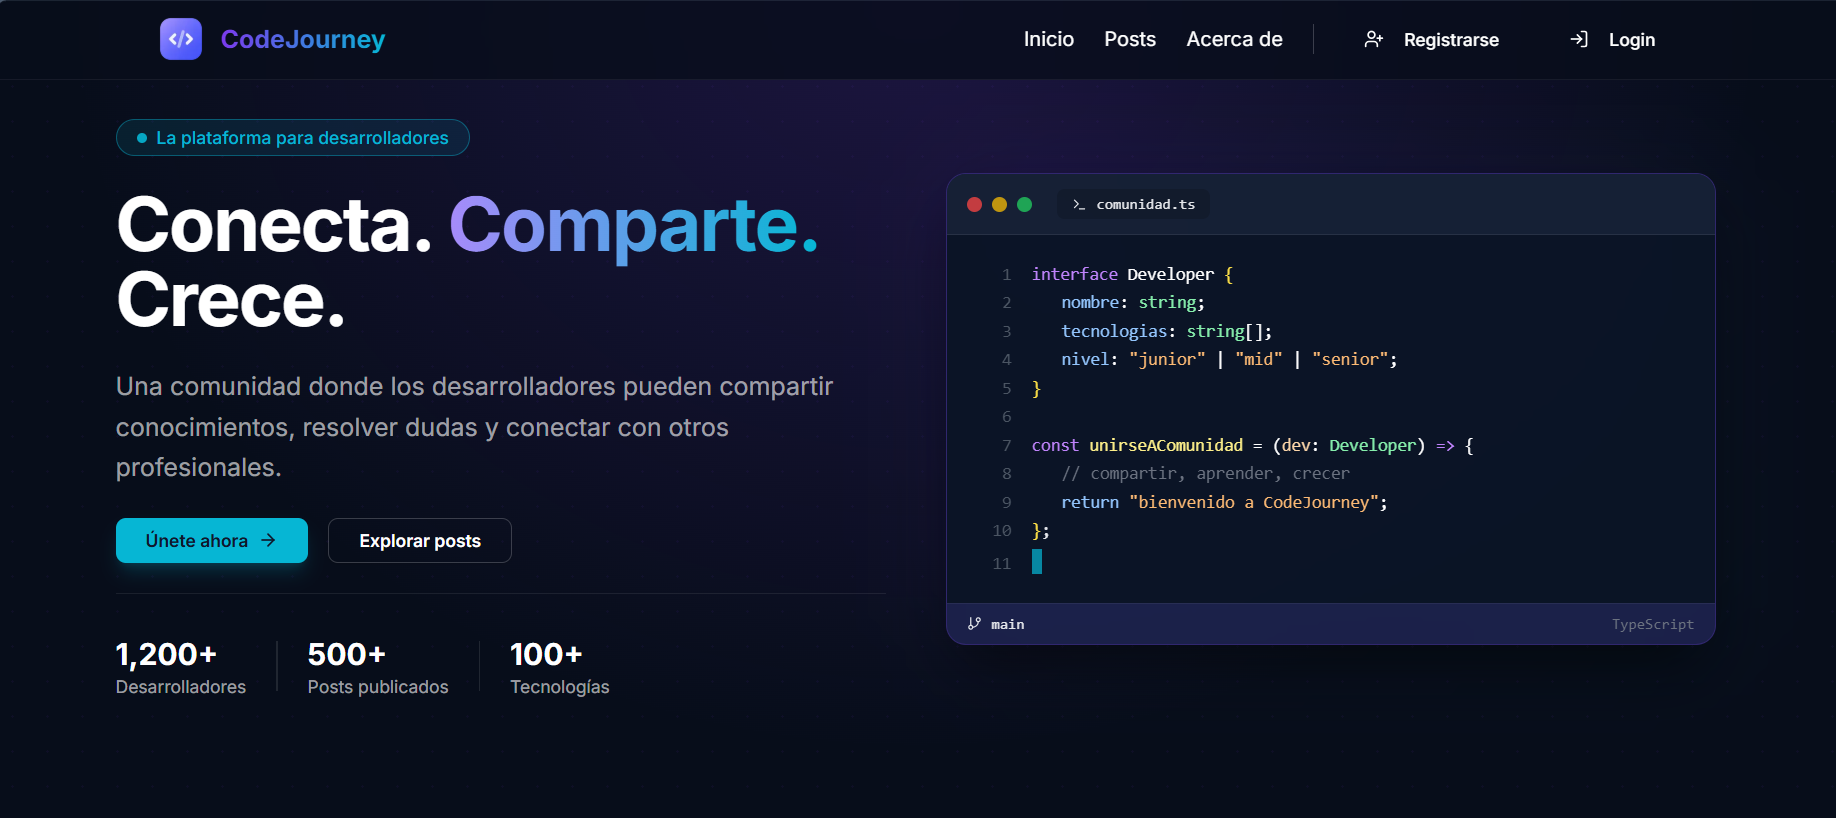
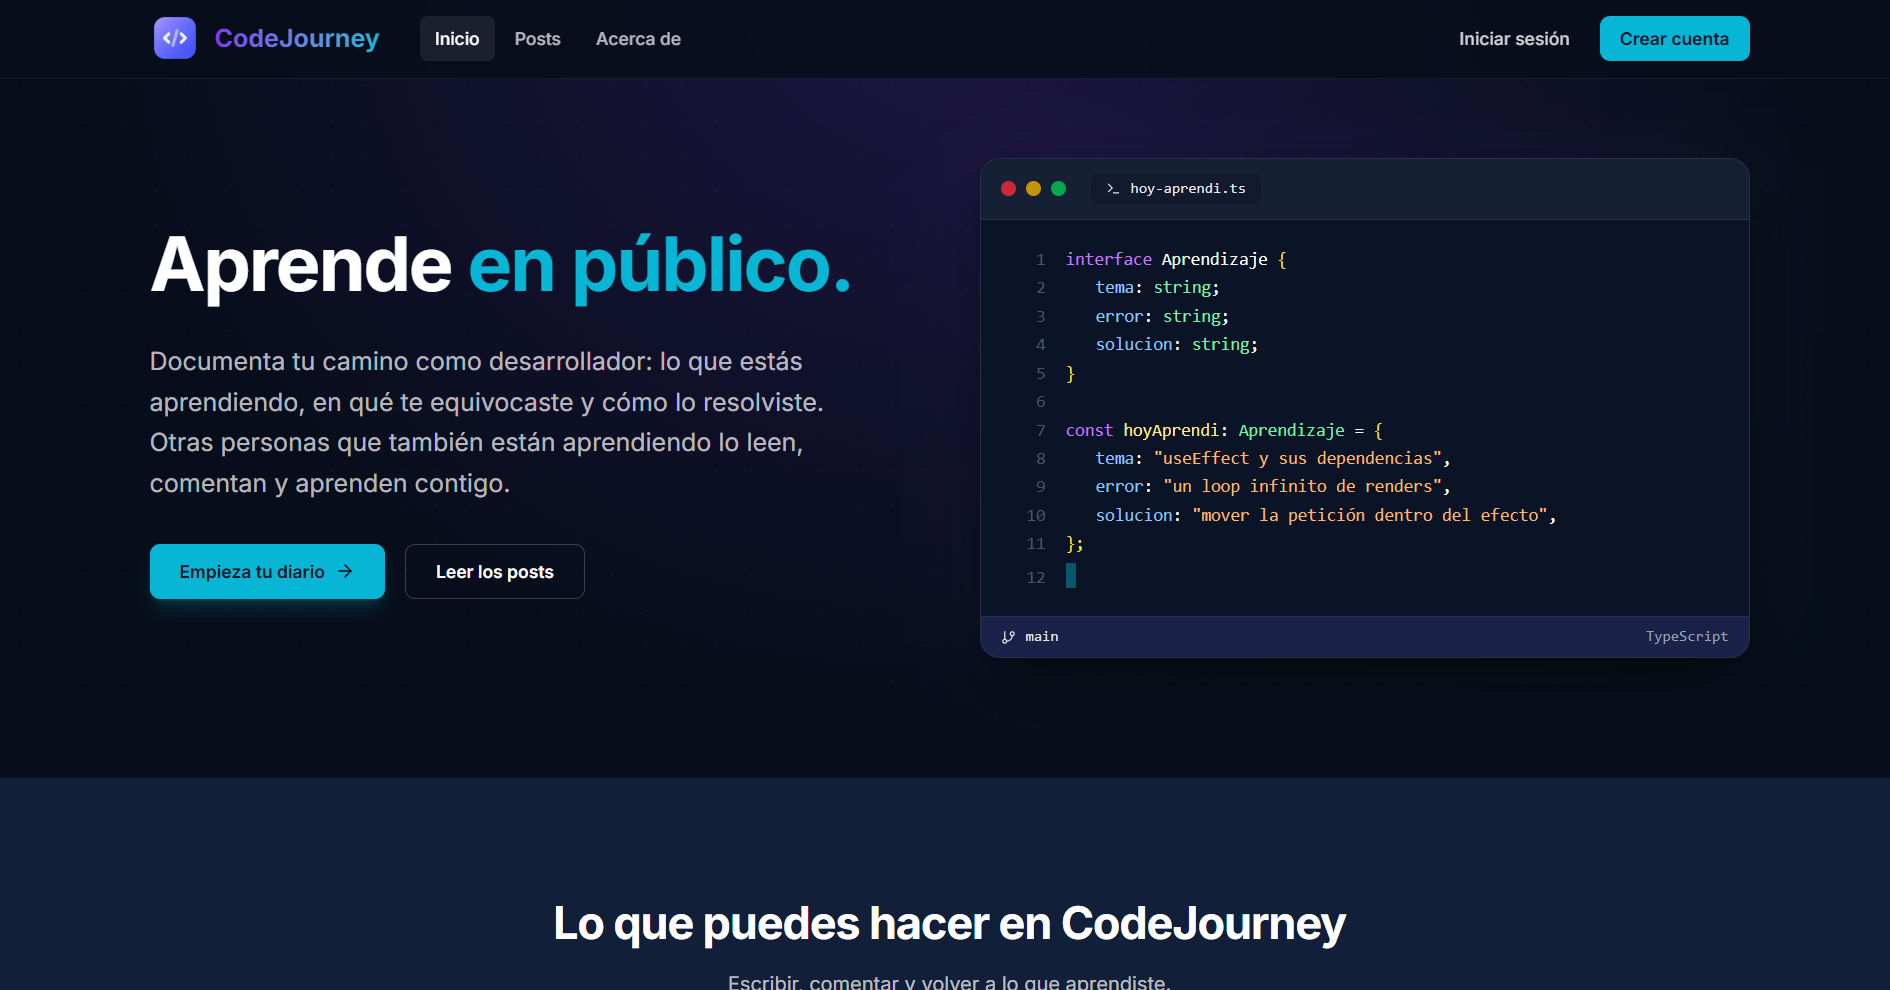
Se cambio datos

diff --git a/components/sections/about.tsx b/components/sections/about.tsx
@@ -17,7 +17,7 @@ export function AboutSection() {
             </strong>{" "}
             y soy desarrollador full stack en Lima, Perú, especializado en
             frontend. Las APIs que hay detrás de varios de mis proyectos las
-            construí y desplegué yo mismo. Cuento con inglés B2.
+            construí y desplegué yo mismo.
           </p>
 
           <h3 className="mt-8 mb-4 flex items-center gap-2 text-sm font-semibold tracking-wide uppercase">

diff --git a/data/education.ts b/data/education.ts
@@ -3,7 +3,7 @@ import type { Education } from "@/types"
 export type { Education }
 
 export const education: Education = {
-  degree: "Egresado de Ingeniería de Sistemas de Información",
+  degree: "Bachiller en Ingeniería de Sistemas de Información",
   institution: "Universidad Peruana de Ciencias Aplicadas",
   period: "Ago 2021 - Jul 2026",
   location: "Lima, Perú",
